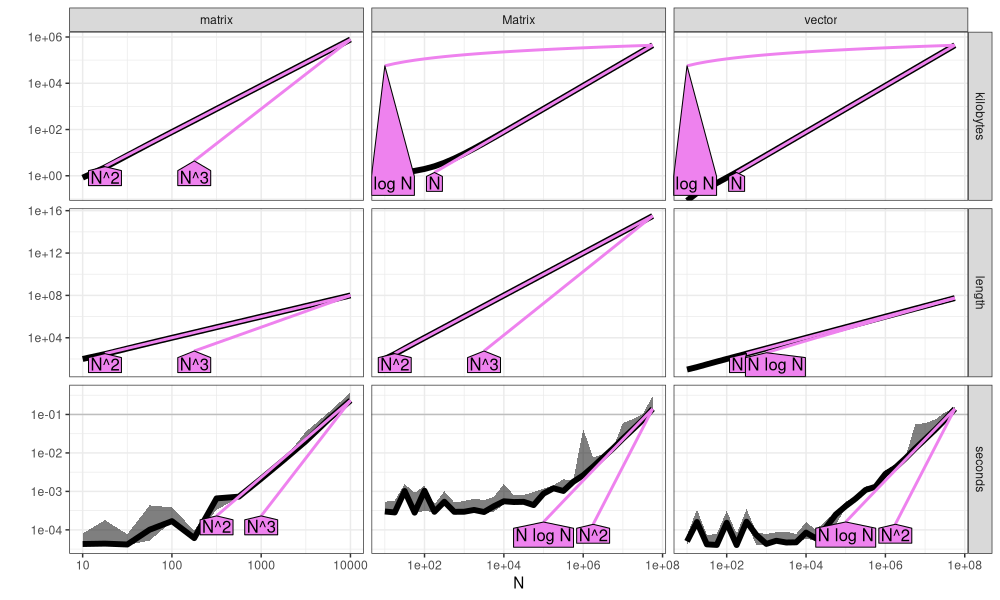
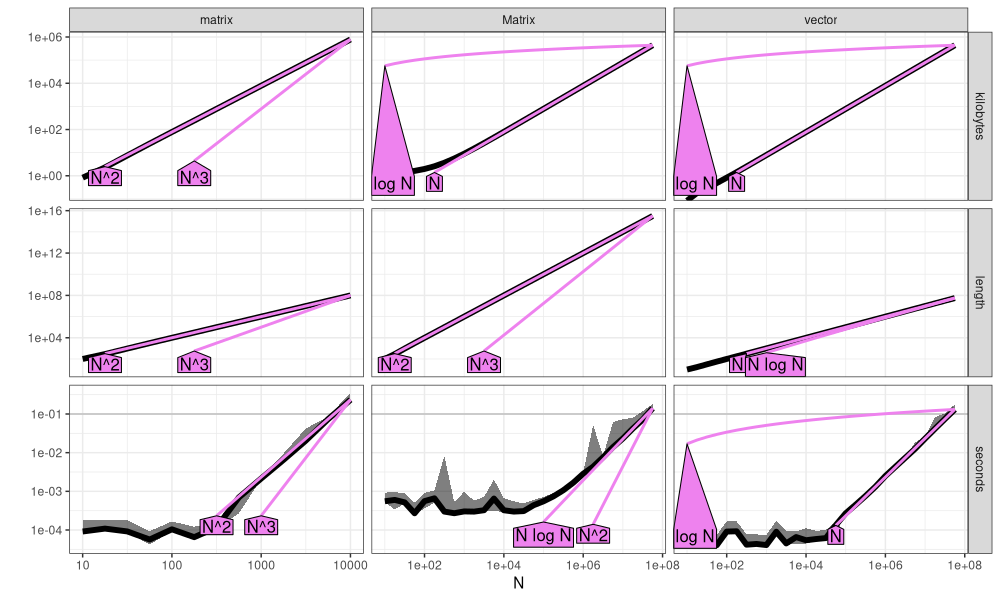
p

diff --git a/_posts/2026-09-11-foil-atime.md b/_posts/2026-09-11-foil-atime.md
@@ -12,7 +12,7 @@ Recently Visruth Srimath Kandali asked me to review his [foil proposal](https://
 
 I told him that in general it would be great to have a tool that lets us measure the peak memory used outside of the regular R memory.
 
-In comparison, my R package [atime](https://atime-docs.netlify.app/) is for asymtotic benchmarking, and is limited to measuring regular R memory, because it uses [bench::mark()](https://bench.r-lib.org/reference/mark.html) for each data size.
+In comparison, my R package [atime](https://atime-docs.netlify.app/) is for asymptotic benchmarking, and is limited to measuring regular R memory, because it uses [bench::mark()](https://bench.r-lib.org/reference/mark.html) for each data size.
 The plus side is that this is portable to all different versions of R (mac win linux).
 The minus side is that it only works for the R memory manager, not other memory.
 
